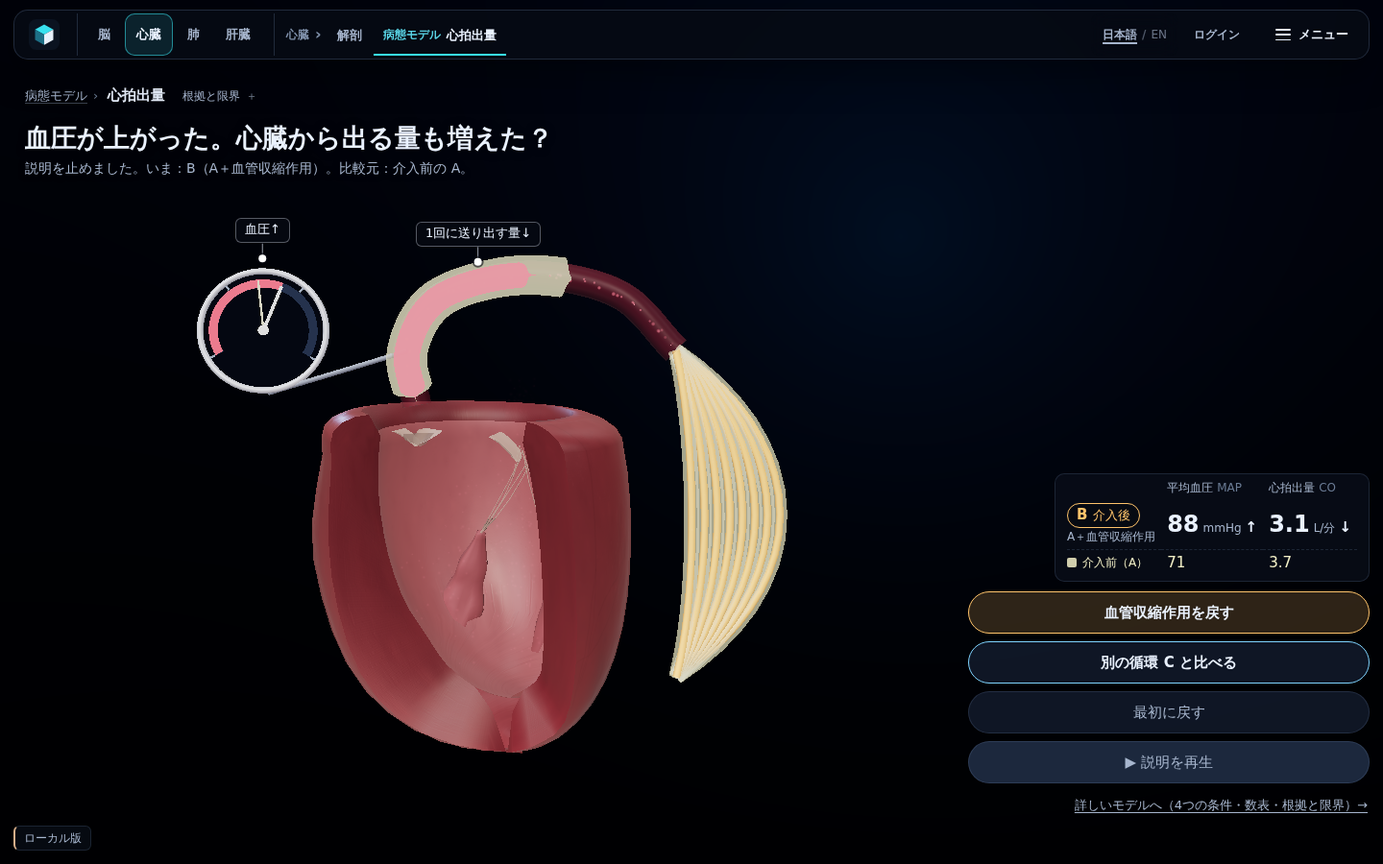
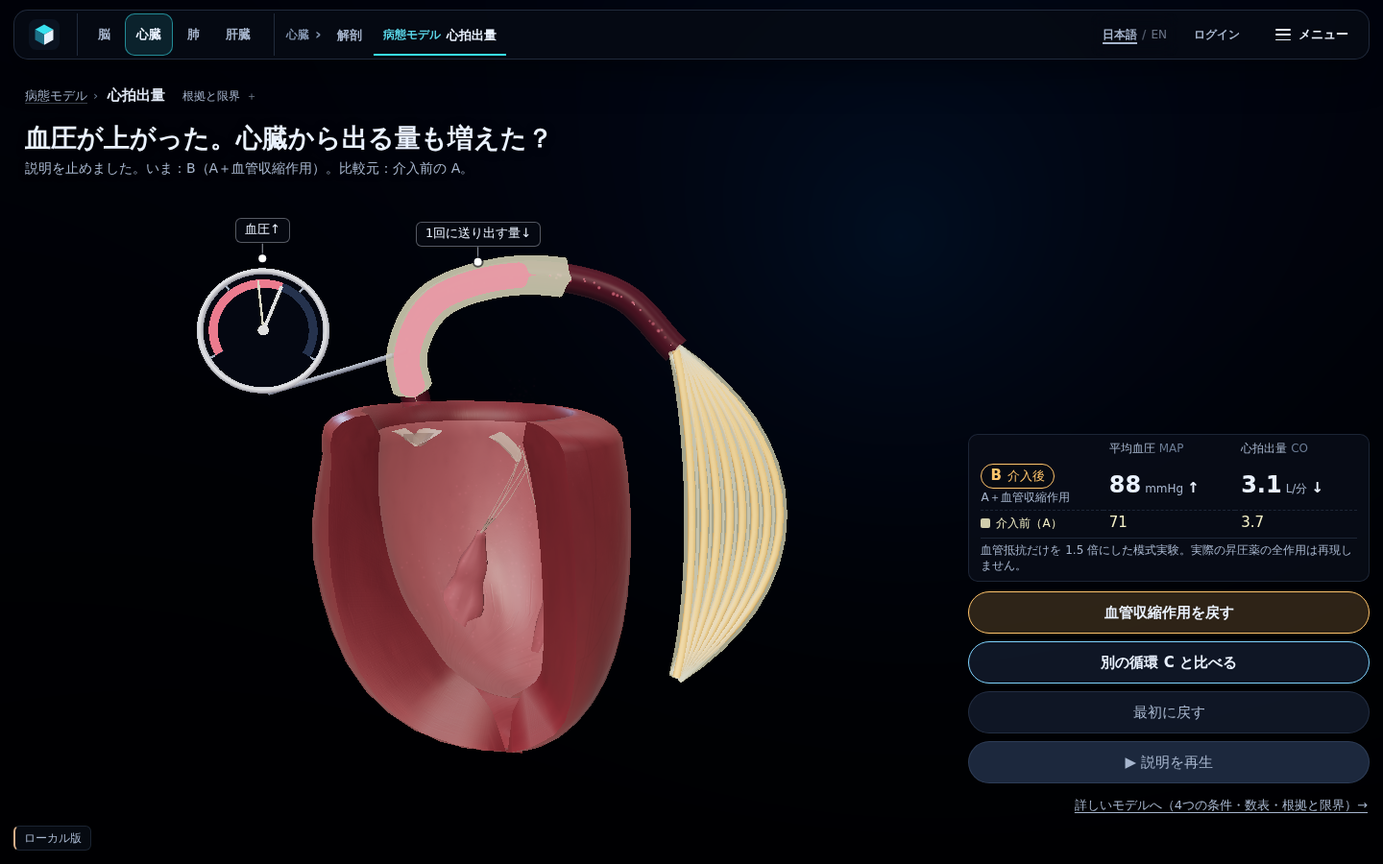
心拍出量・入門: 結果のそばに「血管抵抗だけを 1.5 倍にした模式実験」を常に、変化は「このモデルでは」の向きで言う（所有者のレビュー）
- 血管収縮作用がかかっている間（歩いている途中・B・B と C）、数表の下に
  「血管抵抗だけを 1.5 倍にした模式実験。実際の昇圧薬の全作用は再現しません。」。
  倍率は介入の定義から読む。手動操作だけの読者にも届く
- 「少し減りました」をやめ、A→B の 3 分岐すべてを「このモデルでは」で言う。
  大きさの語（少し・わずか・大きく…）を持たないことをテストで固定
- 場面 5 の注記は注意書きと重なる部分を削り「投与量や臓器の血流も計算していない」に
- 375×667 の帯が 150 px を割ったので（114〜146）、短い電話では場面番号を見出しの
  行へ、進行の点を隠し、余白を詰めた。実測 151〜156 px（F-241 を P2 に更新）
- lesson-drive: 注意書きが B の場面と手動の B・B と C で画面に出ていること、A では
  出ないことを 3 幅で読む
- 証拠画像を差し替え。F-239 に所有者の問い（B と C の違い、実際の昇圧薬でも必ず
  下がるか、375 で模型の差を読めるか）。L-151

Claude-Session: https://claude.ai/code/session_01X7Nejy22FgCAtvvWGqpmtw

Changed region(s): [[0.6875, 0.4978, 0.9688, 0.6533], [0.9062, 0.4978, 0.9375, 0.5289]]

diff --git a/src/data/cardiacOutputLesson.js b/src/data/cardiacOutputLesson.js
@@ -63,6 +63,16 @@ export const LESSON_READOUT = {
   co: { label: { en: 'Cardiac output', ja: '心拍出量' }, abbr: 'CO', unit: { en: 'L/min', ja: 'L/分' } },
   changing: { en: 'changing…', ja: '変化中…' },
   group: { en: 'Results', ja: '計算結果' },
+  // Under the results whenever the vasoconstrictor action is on — from the
+  // first step of the walk to A's return, in the explanation and under the
+  // reader's buttons alike — because a reader who only presses the button sees
+  // the output fall and nothing else. {factor} is the intervention's own
+  // multiplier, read from the model, not written here (owner's review,
+  // 2026-09-30).
+  caveat: {
+    en: 'A schematic experiment: only the vascular resistance, ×{factor}. A real vasopressor’s whole action is not reproduced.',
+    ja: '血管抵抗だけを {factor} 倍にした模式実験。実際の昇圧薬の全作用は再現しません。',
+  },
 };
 
 export const LESSON_ACTIONS = {
@@ -100,17 +110,21 @@ export const LESSON_GUIDE = {
   },
   changing: { en: 'Adding the vasoconstrictor action…', ja: '血管収縮作用を加えています…' },
   releasing: { en: 'Taking the vasoconstrictor action away…', ja: '血管収縮作用を戻しています…' },
+  // Said as a direction in this model, never as a size: "a little" carried a
+  // clinical judgement of 3.75 → 3.13 L/min that this lesson does not make
+  // (owner's review, 2026-09-30). `tests/cardiac-output-lesson.test.js`
+  // holds these words to that.
   afterDown: {
-    en: 'Pressure went up; the output went down a little. Next, compare with C.',
-    ja: '血圧は上がり、送り出す量は少し減りました。次は C と比べてみましょう。',
+    en: 'Pressure went up; in this model, the output went down. Next, compare with C.',
+    ja: '血圧は上がり、送り出す量はこのモデルでは減りました。次は C と比べてみましょう。',
   },
   afterSame: {
-    en: 'Pressure went up; the output barely changed. Next, compare with C.',
-    ja: '血圧は上がり、送り出す量はほとんど変わりません。次は C と比べてみましょう。',
+    en: 'Pressure went up; in this model, the output barely changed. Next, compare with C.',
+    ja: '血圧は上がり、送り出す量はこのモデルではほとんど変わりません。次は C と比べてみましょう。',
   },
   afterUp: {
-    en: 'Pressure went up, and so did the output. Next, compare with C.',
-    ja: '血圧は上がり、送り出す量も増えました。次は C と比べてみましょう。',
+    en: 'Pressure went up; in this model, the output went up too. Next, compare with C.',
+    ja: '血圧は上がり、送り出す量もこのモデルでは増えました。次は C と比べてみましょう。',
   },
   pairBC: {
     en: 'B and C: about the same pressure — C sends out clearly more.',
@@ -165,16 +179,16 @@ export const LESSON_STEPS = {
     heading: { en: 'B: the pressure went up. And the output?', ja: 'B：血圧は上がった。送り出す量は？' },
     text: {
       down: {
-        en: 'Mean pressure {mapA} → {mapB} mmHg. Cardiac output did not rise: {coA} → {coB} L/min, a little less — against narrower vessels this heart sends out less per beat.',
-        ja: '平均血圧は {mapA} → {mapB} mmHg。心拍出量は増えず {coA} → {coB} L/分と少し減りました。細くなった血管へは、この心臓は押し出しにくくなります。',
+        en: 'Mean pressure {mapA} → {mapB} mmHg. Cardiac output did not rise; in this model it went down, {coA} → {coB} L/min — against narrower vessels this heart sends out less per beat.',
+        ja: '平均血圧は {mapA} → {mapB} mmHg。心拍出量は増えず、このモデルでは {coA} → {coB} L/分に減りました。細くなった血管へは、この心臓は押し出しにくくなります。',
       },
       same: {
-        en: 'Mean pressure {mapA} → {mapB} mmHg. Cardiac output barely moved: {coA} → {coB} L/min.',
-        ja: '平均血圧は {mapA} → {mapB} mmHg。心拍出量は {coA} → {coB} L/分で、ほとんど変わりません。',
+        en: 'Mean pressure {mapA} → {mapB} mmHg. In this model cardiac output barely moved: {coA} → {coB} L/min.',
+        ja: '平均血圧は {mapA} → {mapB} mmHg。心拍出量はこのモデルでは {coA} → {coB} L/分で、ほとんど変わりません。',
       },
       up: {
-        en: 'Mean pressure {mapA} → {mapB} mmHg, and cardiac output rose too: {coA} → {coB} L/min.',
-        ja: '平均血圧は {mapA} → {mapB} mmHg に上がり、心拍出量も {coA} → {coB} L/分に増えました。',
+        en: 'Mean pressure {mapA} → {mapB} mmHg, and in this model cardiac output rose too: {coA} → {coB} L/min.',
+        ja: '平均血圧は {mapA} → {mapB} mmHg に上がり、心拍出量もこのモデルでは {coA} → {coB} L/分に増えました。',
       },
     },
     note: {
@@ -199,9 +213,12 @@ export const LESSON_STEPS = {
       en: 'Mean pressure B {mapB}, C {mapC} mmHg; cardiac output B {coB}, C {coC} L/min. The pressure alone cannot tell you whether the circulation is keeping up.',
       ja: '平均血圧は B {mapB}・C {mapC} mmHg とほぼ同じなのに、心拍出量は B {coB}・C {coC} L/分。血圧の数字だけでは、循環が保たれているかを判断できません。',
     },
+    // What the caveat under the results does not already say. It said "only
+    // the vasoconstrictor action, not noradrenaline's whole action" too, which
+    // the results now carry at every B moment (owner's review, 2026-09-30).
     note: {
-      en: 'Schematic: only the vasoconstrictor action. Not noradrenaline’s whole action, not a dose; organ blood flow is not computed.',
-      ja: '模式実験：血管収縮作用だけを取り出しています。ノルアドレナリンの全作用・投与量・臓器の血流は再現していません。',
+      en: 'Doses and organ blood flow are not computed either.',
+      ja: '投与量や臓器の血流も、このモデルは計算していません。',
     },
   },
 };

diff --git a/tests/cardiac-output-lesson.test.js b/tests/cardiac-output-lesson.test.js
@@ -289,6 +289,51 @@ test('session: the read-out for B alone carries A as "before", with the solved d
   assert.equal(primary.reference.coDirection, outputDirection(solved));
 });
 
+test('session: while the vasoconstrictor action is on, the results say what it is and is not', () => {
+  // Owner's review, 2026-09-30: a reader who only presses the button saw the
+  // output fall with nothing beside it saying that only the resistance moved.
+  const session = new LessonSession();
+  assert.equal(readoutFor(session).caveat, null, 'A, nothing applied: nothing to qualify');
+
+  session.setPrimary('B');
+  session.tick(MANUAL_WALK_SECONDS / 4);
+  assert.equal(session.primaryId, null, 'part way through the walk');
+  assert.ok(readoutFor(session).caveat, 'from the first step of the walk');
+
+  session.setPrimary('B', { immediate: true });
+  const { caveat } = readoutFor(session);
+  const factor = INTERVENTION_PROFILES[INTERVENTION_IDS.VASOCONSTRICTION].effects.systemicResistanceMmHgSPerMl.multiply;
+  assert.match(caveat.ja, new RegExp(`血管抵抗だけを ${String(factor).replace('.', '\\.')} 倍`), 'the factor is the model’s own');
+  assert.match(caveat.ja, /模式実験/);
+  assert.match(caveat.ja, /実際の昇圧薬の全作用は再現しません/);
+  assert.ok(caveat.en.includes(`×${factor}`));
+
+  session.setShowOther(true);
+  assert.ok(readoutFor(session).caveat, 'B beside C is still B');
+
+  session.setPrimary('A', { immediate: true });
+  assert.equal(readoutFor(session).caveat, null, 'A beside C: the action is off again');
+});
+
+test('words: the change from A to B is said as a direction in this model, never as a size', () => {
+  // "少し減りました" put a clinical judgement on 3.75 → 3.13 L/min (−16 %)
+  // that the lesson does not make (owner's review, 2026-09-30).
+  const sizes = /少し|わずか|やや|大きく|大幅|かなり|著しく|a little|slightly|somewhat|greatly|markedly|significantly|substantially/i;
+  const said = [
+    ...Object.values(LESSON_STEPS.result.text),
+    LESSON_GUIDE.afterDown,
+    LESSON_GUIDE.afterSame,
+    LESSON_GUIDE.afterUp,
+  ];
+  for (const words of said) {
+    for (const text of [words.en, words.ja]) {
+      assert.doesNotMatch(text, sizes, `"${text}" says how big the change is`);
+    }
+    assert.match(words.ja, /このモデルでは/, `"${words.ja}" does not say it is this model's result`);
+    assert.match(words.en, /in this model/i, `"${words.en}" does not say it is this model's result`);
+  }
+});
+
 // ---------------------------------------------------------------------------
 // The explanation
 // ---------------------------------------------------------------------------

diff --git a/src/styles/lesson-layout.css b/src/styles/lesson-layout.css
@@ -212,6 +212,16 @@
   font-variant-numeric: tabular-nums;
 }
 
+/* What the vasoconstrictor action is and is not, under the figures it made. */
+#ui[data-layout='lesson'] .lesson-caveat {
+  margin: 4px 0 0;
+  padding-top: 4px;
+  border-top: 1px solid var(--border);
+  color: var(--ink-dim);
+  font-size: 12px;
+  line-height: 1.35;
+}
+
 #ui[data-layout='lesson'] .lesson-table thead th {
   font-size: 12px;
   font-weight: var(--weight-medium);
@@ -736,5 +746,52 @@ body.has-build-marker #ui[data-layout='lesson'] .lesson-bottom {
 @media (max-width: 430px) and (max-height: 740px) {
   #ui[data-layout='lesson'] .lesson-top[data-mode='explaining'] .title-card {
     display: none;
+  }
+
+  /* The caveat under the results costs two lines here, and the model's band
+     is what pays (L-142's floor, 150 px). The step count moves onto the
+     heading's line and the dots go — "3 / 5" says the same — and the gaps
+     close a little; the caveat itself stays whole. */
+  #ui[data-layout='lesson'] .lesson-caption {
+    display: grid;
+    grid-template-columns: minmax(0, 1fr) auto;
+    column-gap: 8px;
+  }
+
+  #ui[data-layout='lesson'] .lesson-caption-head {
+    grid-column: 2;
+    grid-row: 1;
+    align-self: start;
+    margin-top: 5px;
+  }
+
+  #ui[data-layout='lesson'] .lesson-dots {
+    display: none;
+  }
+
+  #ui[data-layout='lesson'] .lesson-caption-heading {
+    grid-column: 1;
+    grid-row: 1;
+    margin-top: 2px;
+  }
+
+  #ui[data-layout='lesson'] .lesson-caption-text,
+  #ui[data-layout='lesson'] .lesson-caption-note {
+    grid-column: 1 / -1;
+  }
+
+  #ui[data-layout='lesson'] .lesson-caveat {
+    margin-top: 2px;
+    padding-top: 3px;
+    line-height: 1.3;
+  }
+
+  #ui[data-layout='lesson'] .lesson-manual {
+    gap: 6px;
+  }
+
+  #ui[data-layout='lesson'] .lesson-detail {
+    padding-top: 2px;
+    padding-bottom: 2px;
   }
 }

diff --git a/src/scenes/cardiovascular/scenes/cardiacOutput/lessonStoryboard.js b/src/scenes/cardiovascular/scenes/cardiacOutput/lessonStoryboard.js
@@ -1,7 +1,9 @@
 import { directionOf } from '../../../../models/cardiacOutputLesson.js';
+import { INTERVENTION_IDS, INTERVENTION_PROFILES } from '../../../../models/cardiacInterventions.js';
 import {
   LESSON_CONDITION_COPY,
   LESSON_GUIDE,
+  LESSON_READOUT,
   LESSON_STEPS,
   LESSON_TAGS,
 } from '../../../../data/cardiacOutputLesson.js';
@@ -276,5 +278,14 @@ export function readoutFor(session) {
   return {
     primary: card(session.primaryId, session.primary, session.reference),
     other: session.showOther ? card('C', session.other, null) : null,
+    // While any of the vasoconstrictor action is on — B, or a step of the walk
+    // between A and B — the results carry what it is and is not.
+    caveat: session.rung > 0 ? interventionCaveat() : null,
   };
+}
+
+/** The caveat under the results, with the intervention's own factor in it. */
+export function interventionCaveat() {
+  const factor = INTERVENTION_PROFILES[INTERVENTION_IDS.VASOCONSTRICTION].effects.systemicResistanceMmHgSPerMl.multiply;
+  return both(LESSON_READOUT.caveat, fillWith({ factor: String(factor) }));
 }

diff --git a/src/app/performanceBudget.js b/src/app/performanceBudget.js
@@ -364,8 +364,8 @@ export const BUNDLE_BUDGET_KB = {
    *
    * 700 → 725 on 2026-09-29: the cardiac-output introductory lesson (its
    * shell, its page, its scene and its stylesheet, and the full model's
-   * fourth intervention) added 23.5 kB gzipped — 696.5 kB on `main` before
-   * it, 720.0 kB with it, and a ceiling at the
+   * fourth intervention) added 23.7 kB gzipped — 696.5 kB on `main` before
+   * it, 720.2 kB with it, and a ceiling at the
    * measured figure would fail the next change of any size. None of it is in
    * the entry beyond the router's `?view=` (0.6 kB): the lesson loads with
    * `#/cardiac-output`, and the full model's scene (13.8 kB) only with

diff --git a/src/components/LessonPanel.js b/src/components/LessonPanel.js
@@ -133,7 +133,10 @@ export function createLessonPanel({ titleCard, copy, detailHref, on }) {
     guide.replaceChildren(...pair(state.guide));
     guide.hidden = !state.guide;
 
-    readout.replaceChildren(renderTable(state.readout));
+    readout.replaceChildren(
+      renderTable(state.readout),
+      ...(state.readout.caveat ? [el('p', { class: 'lesson-caveat' }, pair(state.readout.caveat))] : [])
+    );
     readout.dataset.cards = state.readout.other ? '2' : '1';
 
     entries.hidden = state.mode !== 'idle';

diff --git a/docs/follow-ups.md b/docs/follow-ups.md
@@ -33,7 +33,7 @@ Last updated: 2026-09-29
   | **F-197〜F-206 / L-95〜L-104** | `verify:anatomy` が main で赤い件（F-133 / F-179）の修正。使うのは F-197〜F-199 と L-95〜L-97。**採番し直し 1 回目**: F-180 から取ったところ、#150 が先に使っていました（下の 15 回目） | 2026-09-22 |
   | **F-200〜F-209 / L-98〜L-104** | ナビゲーションと App Shell の UX 監査（reading surface 間の document 再読込み廃止・共通ヘッダ・Trust の IA・boot veil・モデル切替の frame handover）。使うのは F-200〜F-209 と L-98〜L-104。**採番し直し 1 回目**: F-197〜F-206 / L-94〜L-103 で取りました。マージの直前に main を読み直したところ **F-197・F-198・F-199 と L-94〜L-97 が全部すでに使われて**いて（#151 が同じ F-197〜F-206 / L-95〜L-104 を予約）、main の最大の上へ丸ごと移しました。**L の上限を 107 から 104 に詰めてあります**——#152 が L-105〜L-108 を使っており、こちらの予約幅 10 と重なるためです。F-198 は `### F-198` ではなく解決済みの箇条書きなので、**見出しだけを数えると空いて見えます**。予約は着手時ではなく**マージ時点の最大**から取り直し、見出し以外の使用も数え、**マージのたびに取り直す**こと（この branch は 1 回のマージ待ちの間に main が 2 度進み、2 度とも番号が動きました） | 2026-09-23 |
   | **F-224〜F-233 / L-128〜L-137** | 患者説明と医学教育を目的として分ける（`?purpose=`・`#/patient`・ヘッダーの切替と現在地・患者説明の console・教育ガイドを 3D の横へ）。使うのは F-224〜F-232 と L-128・L-129（F-232 は続く患者向け文言の書き直し）。マージ時点の main の最大（F-223 / L-127）から取っています | 2026-09-27 |
-  | **F-237〜F-246 / L-140〜L-150** | 心拍出量の入門教材（`#/cardiac-output` を「血圧が上がった。心臓から出る量も増えた？」の 1 問に絞った説明と操作に、詳しいモデルを `?view=detail` へ）。マージ時点の main の最大（F-236 / L-139）から取っています | 2026-09-29 |
+  | **F-237〜F-246 / L-140〜L-151** | 心拍出量の入門教材（`#/cardiac-output` を「血圧が上がった。心臓から出る量も増えた？」の 1 問に絞った説明と操作に、詳しいモデルを `?view=detail` へ）。マージ時点の main の最大（F-236 / L-139）から取っています | 2026-09-29 |
 
 - **重複の一覧は [`tests/follow-ups-numbers.test.js`](../tests/follow-ups-numbers.test.js) が持ちます。ここには書き写しません。**
   この節は長らく「F-90〜F-93 の 4 件」と書いていましたが、**数えたら 18 件**
@@ -5227,6 +5227,12 @@ CSS に日本語の文節境界を教える手段は無く、`word-break: keep-a
   asked to do」の課題をそのまま出す。言えなかった点を、この台帳に 1 項目ずつ
 - 特に見る点: C を「B の治療後」と読まないか。A→B を「昇圧薬は心拍出量を下げる」と
   一般化しないか。明るい赤の長さを「送り出した量」と読めるか。血圧計の針を読むか
+- **所有者のレビュー（2026-09-30）で足した問い**: 「B と C は何が違うか」「実際の
+  昇圧薬でも必ず拍出が下がるか」を説明してもらう。375×667 の比較画面
+  （`docs/screenshots/cardiac-output-lesson/375-4-other.png`）では**模型の差より
+  数値が理解を支えている**ように見える——画像からの観察で、読めないと確定した
+  わけではない。電話の読者が数表を隠しても B と C の違いを模型から言えるかを、
+  ここで確かめる（F-241 の帯の狭さと同じ根）
 - 完了の定義: 課題への回答が記録され、読み違いがあれば直した版で再確認済み
 
 ### F-238 — 心拍出量・入門教材: 実機（iPhone Safari・Android Chrome）で未確認 — P2
@@ -5252,10 +5258,19 @@ A（収縮力低下プリセット）・B（A の体血管抵抗 ×1.5）・C（
 
 - 完了の定義: レビュー記録（`docs/clinical-reviews/`）と、指摘への対応
 
-### F-241 — 心拍出量・入門教材: 375×667 の説明中は模型の帯が約 170 px、心臓は幅約 80 px — P3
+### F-241 — 心拍出量・入門教材: 375×667 で B を見せる場面の模型の帯は 151〜156 px（下限 150）、心臓は幅約 80 px — P2
 
 375×667 では、共通ヘッダーが 2 段（約 100 px）で、説明中は数表・説明文・再生ボタンが
 下に並ぶため、模型の帯は約 170 px です（2026-09-29 の最終実行の画像で測定）。
+
+**2026-09-30 更新（所有者のレビュー後）**: 数表の下に血管収縮作用の注意書き（2 行）を
+常に出すようにしたので、B を見せる瞬間の帯はさらに狭くなりました。実測
+（`window.__app.lesson.band()`、カメラ停止後）: 最初の画面 268 px、場面 1 255、
+場面 2 171、**場面 3 153、場面 4 151**、場面 5 169、**手動の B 156、B と C 154**。
+下限 150 px は満たしますが、余裕は 1〜6 px です。短い電話では、場面番号を見出しの
+行へ移し、進行の点を隠し、余白を詰めて取り戻しています。所有者の観察
+（375×667 の比較では模型の差より数値が理解を支えている）はこの狭さと同じ根で、
+F-239 の初見確認で確かめます。
 B と C を並べた場面だけでなく、**説明文が 4 行＋注記 2 行になる場面 3（B 単独）でも**
 心臓は幅約 80 px です。`lesson-drive` の下限（電話 150 px）は満たし、タグは模型に
 載らず（`checkCover`）、形は読めますが余裕はありません。説明中の短い電話では

diff --git a/docs/screenshots/cardiac-output-lesson/README.md b/docs/screenshots/cardiac-output-lesson/README.md
@@ -1,11 +1,14 @@
 # Cardiac output — the introductory lesson
 
 「血圧が上がった。心臓から出る量も増えた？」 — what `#/cardiac-output` opens on
-(the full model is at `#/cardiac-output?view=detail`, unchanged).
+(the full model is at `#/cardiac-output?view=detail`; its only change is a
+fourth intervention in its menu, the same vasoconstrictor action).
 
 Driven, not posed: every file here was written by
-`npm run verify:disease -- <dir> cardiac-output --record-lesson`
-(`scripts/lib/lesson-drive.mjs`) on 2026-09-30, in a run that also asserted, at
+`npm run verify:disease -- <dir> cardiac-output --lesson-only`
+(`scripts/lib/lesson-drive.mjs`) on 2026-09-30, after the owner's review (the
+caveat under the results while the vasoconstrictor action is on, and the change
+said as "in this model" rather than as a size), in a run that also asserted, at
 each of these moments and with the camera at rest, that the model keeps its
 band, that every word on it is inside that band, clear of the others, not over
 the point it names and not standing over the model itself (L-145, L-146), and
@@ -21,13 +24,13 @@ condition; nothing here is drawn from a figure written by hand.
 | --- | --- | --- |
 | `1440-0-first.png` | 1440×900 | First screen: the question, the model with its four parts named, A's mean pressure and output, 「▶ 説明を再生」「自分で試す」, the way to the full model. No modal, no scroll |
 | `1440-2-constrict.png` | 1440×900 | Scene 2 of 5: the vasoconstrictor action added — all the small vessels of the body narrow together (not one narrowing). The needle and A's needle (cream) on the dial |
-| `1440-3-result.png` | 1440×900 | Scene 3: B. Pressure 71 → 88 mmHg, output 3.7 → 3.1 L/min; the bright length (blood sent out this beat) inside A's cream sleeve, held at the same moment of the beat |
+| `1440-3-result.png` | 1440×900 | Scene 3: B. Pressure 71 → 88 mmHg; in this model the output went down, 3.7 → 3.1 L/min; the bright length (blood sent out this beat) inside A's cream sleeve, held at the same moment of the beat. Under the results: 「血管抵抗だけを 1.5 倍にした模式実験。実際の昇圧薬の全作用は再現しません。」 |
 | `1440-4-other.png` | 1440×900 | Scene 4: C beside B — a separate circulation, not B after treatment. Same moment of the beat, same view of both; about the same needle, clearly different bright length |
 | `1440-5-conclusion.png` | 1440×900 | Scene 5: the conclusion, and its limits in one line |
 | `1440-handover.png` | 1440×900 | The explanation left for the buttons half way through scene 2: the line under the question says what is on screen now and what it is compared with |
 | `390-0-first.png` | 390×844 | First screen on a phone. The vessels' name stands below them: the screen ends at their right |
 | `390-4-other.png` | 390×844 | Scene 4 on a phone: B and C side by side, which draws them larger than one above the other in this band |
-| `375-4-other.png` | 375×667 | The tightest window the owner named, scene 4 (F-241: the model's band is about 170 px) |
+| `375-4-other.png` | 375×667 | The tightest window the owner named, scene 4 (F-241: the model's band is 151 px here, against a floor of 150) |
 | `375-BC.png` | 375×667 | The same pair reached with the buttons |
 
 The two recordings per window (the explanation played through; the buttons)

diff --git a/docs/verification-lessons.md b/docs/verification-lessons.md
@@ -355,6 +355,27 @@ L-95 と L-96 は「別件を直したら、触っていない検査が赤くな
   赤は、既存の同類が同じ検査を通るかで切り分ける。見えていない要素の文字は
   `innerText` ではなく `textContent` で読む。
 
+### L-151 注意書きはコードにあったが、入門の画面はそれを一度も描いていなかった
+
+- **症状**: 入門教材のシーンは `meta.disclaimerShort`（「模式的な教育用モデルです
+  （血管収縮作用のみ・反射なし）」）を持っていましたが、`LessonShell` はそれを
+  どこにも描きません（詳しいモデルのシェルは操作欄の下に描く）。手動操作だけの読者は、
+  「血管収縮作用」を押して拍出が下がるのを見て、それが**抵抗だけを変えた模式実験**
+  だという注意に出会いませんでした——注意は折りたたまれた「根拠と限界」と説明の
+  中だけ。検査は「注意書きが定義されているか」を見ても、「表示されているか」を
+  見ていませんでした。
+- **どう見つかったか**: 所有者のレビュー（2026-09-30）。
+- **いま何が捕まえるか**: 数表の下に「血管抵抗だけを 1.5 倍にした模式実験。実際の
+  昇圧薬の全作用は再現しません。」を、作用がかかっている間ずっと出します
+  （`readoutFor` の `caveat`、倍率は介入の定義から）。`tests/cardiac-output-lesson.test.js`
+  の「while the vasoconstrictor action is on」が出る条件を（歩いている途中を外すと赤）、
+  `scripts/lib/lesson-drive.mjs` が 3 幅で**画面に出ていること**を、説明の各場面と
+  手動の B・B と C で、A では出ないことも含めて読みます。これで 375×667 の帯が
+  150 px を割り（114〜146 px）、説明 5 場面目の重複した注記を削り、短い電話の
+  余白を詰めて戻しました。
+- **一般形**: **定義されていることは、表示されていることではない。** 注意書きは、
+  読者がそれを必要とする画面で、見えていることを測る。
+
 ### L-123 カードを閉じた直後の左室を、固定の 1500 ms 待ちで測っていた
 
 - **症状**: 「カードを閉じた最初の画面」の左室の大きさを記録する検査を足したとき、

diff --git a/docs/model-cards/cardiac-output.md b/docs/model-cards/cardiac-output.md
@@ -182,7 +182,19 @@ mean pressures are within 3 mmHg, that their outputs differ by at least
 at least 10 mmHg, and that the three share a heart rate (so one beat stands
 for a minute); a model change that breaks any of those turns the tests red.
 **Which way the output moved from A to B is not a claim** — the sentence is
-chosen from the solved direction, and the copy has one for each.
+chosen from the solved direction, and the copy has one for each. **Nor is how
+much**: each says the direction "in this model" (「このモデルでは減りました」)
+and none qualifies its size — 「少し減りました」 put a clinical judgement on
+3.75 → 3.13 L/min (−16 %) that the lesson does not make (owner's review,
+2026-09-30; `tests/cardiac-output-lesson.test.js`, "words").
+
+**Beside every result the action made, the caveat.** While any of the
+vasoconstrictor action is on — B, or a step of the walk to it, in the
+explanation and under the buttons alike — the results carry one line:
+「血管抵抗だけを 1.5 倍にした模式実験。実際の昇圧薬の全作用は再現しません。」, with
+the factor read from the intervention's profile. A reader who only presses the
+button used to see the output fall with that caveat folded away in 「根拠と限界」.
+`verify:disease` reads it on screen at every B moment and its absence at A.
 
 - **A → B is a before and after.** The same circulation, drawn in place; A is
   drawn inside it as cream marks (a needle, a sleeve round the blood sent out,

diff --git a/docs/medical-notes.md b/docs/medical-notes.md
@@ -775,6 +775,12 @@ ventricle empties less" is something the viewer sees rather than reads.
 - **計算していないもの**：組織・臓器の血流、酸素供給、乳酸、毛細血管再充満時間
   （CRT）。画面はこれらが改善・悪化したとは描かず、結論は「血圧だけでは判断
   できない」までです。
+- **変化は「このモデルでは」の向きとして言い、大きさは言わない（2026-09-30）**：
+  A→B の心拍出量 3.75 → 3.13 L/分（約 16% 減）を「少し減りました」と書いていたのを、
+  「このモデルでは減りました」にしました。「少し」は臨床的な大小の判断を含み、この
+  教材はそれをしません。血管収縮作用がかかっている間は、数表のすぐ下に
+  「血管抵抗だけを 1.5 倍にした模式実験。実際の昇圧薬の全作用は再現しません。」を
+  常に出します（手動操作だけの読者にも届くように。所有者のレビュー）。
 - **詳しいモデルのメニューにも入れた（2026-09-30、revision 11）**：同じ作用
   （抵抗 ×1.5 のみ）を「昇圧薬の血管収縮作用の模式例（抵抗のみ）」として出します。
   このモデルでは**両方のプリセットで拍出が下がります**（基準心 4.74 → 4.23、
